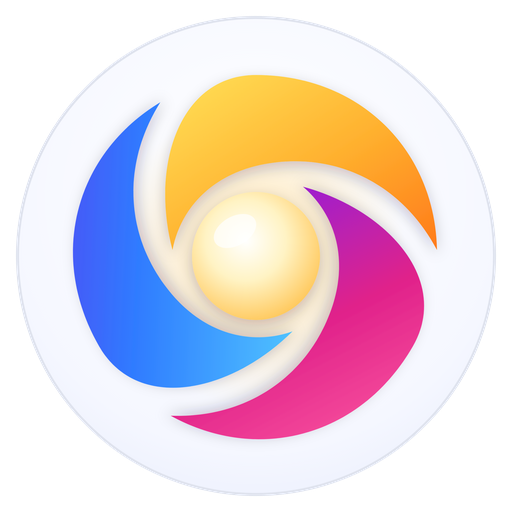
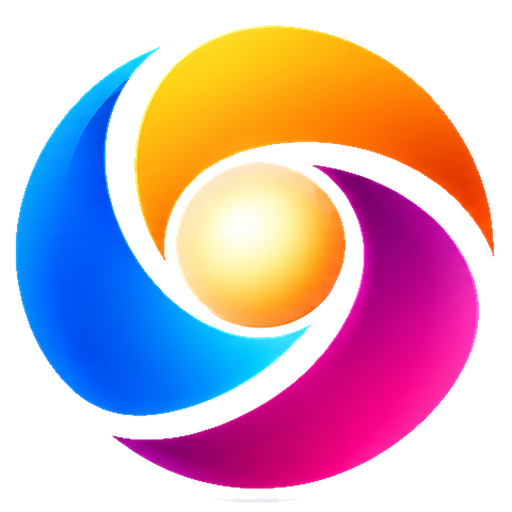
Slutlig logotyp: Solvirvel med Lumen i Inter Display Bold
Claude-Session: https://claude.ai/code/session_01MSrk4REnqPhjGdSKuFxXyL

diff --git a/shared/ui/index.html b/shared/ui/index.html
@@ -50,7 +50,7 @@ button{background:none;border:0;cursor:pointer}
 .start{max-width:760px;margin:0 auto;padding:clamp(36px,8vh,96px) 20px 48px;text-align:center}
 .logo{width:96px;height:96px;margin:0 auto 22px;display:block;filter:drop-shadow(0 16px 30px rgba(60,80,200,.3))}
 .wmh{margin:0 0 10px;line-height:0}
-.lockup{display:flex;align-items:center;justify-content:center;gap:clamp(14px,3vw,22px);margin:0 0 14px;line-height:0}.lockup img{width:clamp(66px,14vw,88px);height:auto;filter:drop-shadow(0 10px 24px rgba(120,60,200,.25))}.wm2{height:clamp(40px,8.4vw,54px);width:auto;color:var(--ink)}.wm{height:clamp(52px,9vw,72px);width:auto;color:var(--ink);overflow:visible}
+.lockup{display:flex;align-items:center;justify-content:center;gap:clamp(14px,3vw,22px);margin:0 0 14px;line-height:0}.lockup img{width:clamp(70px,15vw,92px);height:auto;filter:drop-shadow(0 12px 20px rgba(120,60,200,.18))}.wm2{height:clamp(42px,9vw,58px);width:auto;color:var(--ink)}.wm{height:clamp(52px,9vw,72px);width:auto;color:var(--ink);overflow:visible}
 h1{font-size:clamp(34px,6vw,52px);line-height:1.05;letter-spacing:-.025em;font-weight:700;margin:0 0 8px;text-wrap:balance}
 .lead{color:var(--sub);font-size:17px;margin:0 0 30px}
 .big{display:flex;align-items:center;gap:10px;height:56px;padding:0 8px 0 20px;background:var(--card);border:1px solid var(--line);border-radius:18px;box-shadow:0 8px 30px rgba(0,0,0,.07);transition:box-shadow .3s}
@@ -359,7 +359,7 @@ function render(){const e=entry();renderTabs();$('view').classList.remove('web')
 function startHTML(){if(tab().priv)return `<div class="start pstart"><div class="pico"><svg viewBox="0 0 24 24"><path d="M3 12c2.5-4 5.5-6 9-6s6.5 2 9 6c-2.5 4-5.5 6-9 6s-6.5-2-9-6z"/><circle cx="12" cy="12" r="3"/><path d="M4 4l16 16"/></svg></div><h1>Privat surfning</h1><p class="lead">Lumen sparar ingen historik och inga sökningar från privata flikar. När du stänger den sista privata fliken raderas kakor och inloggningar från dem.</p><form class="big" id="bigf"><input id="bigq" type="search" placeholder="Sök privat med DuckDuckGo" aria-label="Sök" autocomplete="off"><button class="go">Sök</button></form></div>`;
  return `<div class="start"><button class="gear${canUpdate()&&upd.state==='available'?' dot':''}" id="gear" aria-label="Inställningar"><svg viewBox="0 0 24 24"><circle cx="12" cy="12" r="3"/><path d="M19.4 15a1.7 1.7 0 0 0 .3 1.8l.1.1a2 2 0 1 1-2.8 2.8l-.1-.1a1.7 1.7 0 0 0-1.8-.3 1.7 1.7 0 0 0-1 1.5V21a2 2 0 1 1-4 0v-.1a1.7 1.7 0 0 0-1.1-1.5 1.7 1.7 0 0 0-1.8.3l-.1.1a2 2 0 1 1-2.8-2.8l.1-.1a1.7 1.7 0 0 0 .3-1.8 1.7 1.7 0 0 0-1.5-1H3a2 2 0 1 1 0-4h.1a1.7 1.7 0 0 0 1.5-1.1 1.7 1.7 0 0 0-.3-1.8l-.1-.1a2 2 0 1 1 2.8-2.8l.1.1a1.7 1.7 0 0 0 1.8.3H9a1.7 1.7 0 0 0 1-1.5V3a2 2 0 1 1 4 0v.1a1.7 1.7 0 0 0 1 1.5 1.7 1.7 0 0 0 1.8-.3l.1-.1a2 2 0 1 1 2.8 2.8l-.1.1a1.7 1.7 0 0 0-.3 1.8V9a1.7 1.7 0 0 0 1.5 1H21a2 2 0 1 1 0 4h-.1a1.7 1.7 0 0 0-1.5 1z"/></svg></button>
  ${updCard()}
- <h1 class="lockup"><img src="lumen-icon-512.png" alt=""><svg class="wm2" viewBox="0 -790 3278 850" role="img" aria-label="Lumen" xmlns="http://www.w3.org/2000/svg"><g transform="scale(1,-1)" fill="currentColor"><path transform="translate(0,0)" d="M90 0V730H232V0ZM212 0V125H527V0Z"/><path transform="translate(513,0)" d="M264 -17Q170 -17 118.5 45.0Q67 107 67 229V544H206V217Q206 167 234.0 137.5Q262 108 310 108Q358 108 388.5 139.0Q419 170 419 223V544H558V0H448V231H459Q459 149 438.0 94.0Q417 39 375.0 11.0Q333 -17 270 -17Z"/><path transform="translate(1112,0)" d="M79 0V543H189V310H179Q179 392 200.0 447.5Q221 503 262.5 531.5Q304 560 366 560H372Q435 560 476.5 531.5Q518 503 538.5 447.5Q559 392 559 310H524Q524 392 545.5 447.5Q567 503 608.5 531.5Q650 560 712 560H718Q781 560 823.0 531.5Q865 503 886.5 447.5Q908 392 908 310V0H769V323Q769 374 743.0 404.5Q717 435 669 435Q621 435 592.0 403.5Q563 372 563 319V0H424V323Q424 374 398.0 404.5Q372 435 324 435Q276 435 247.0 403.5Q218 372 218 319V0Z"/><path transform="translate(2050,0)" d="M322 -19Q252 -19 199.5 5.0Q147 29 112.5 69.5Q78 110 60.5 160.0Q43 210 43 262V281Q43 335 60.5 385.5Q78 436 112.5 475.5Q147 515 198.0 538.5Q249 562 316 562Q404 562 463.5 523.5Q523 485 553.0 422.5Q583 360 583 288V238H102V323H496L453 281Q453 333 438.0 370.0Q423 407 392.5 427.0Q362 447 316 447Q270 447 238.0 426.0Q206 405 189.5 365.5Q173 326 173 271Q173 220 189.0 180.5Q205 141 238.0 118.5Q271 96 322 96Q373 96 405.0 116.5Q437 137 446 167H574Q562 111 528.0 69.0Q494 27 441.5 4.0Q389 -19 322 -19Z"/><path transform="translate(2630,0)" d="M79 0V543H189V310H179Q179 393 201.0 448.5Q223 504 266.5 532.0Q310 560 375 560H381Q478 560 528.0 497.5Q578 435 578 311V0H439V323Q439 373 410.5 404.0Q382 435 332 435Q281 435 249.5 403.5Q218 372 218 319V0Z"/></g></svg></h1><p class="lead">Webbläsaren och sökmotorn som svarar direkt.</p>
+ <h1 class="lockup"><img src="lumen-icon-512.png" alt=""><svg class="wm2" viewBox="0 -1592 6518 1694" role="img" aria-label="Lumen" xmlns="http://www.w3.org/2000/svg"><g transform="scale(1,-1)" fill="currentColor"><path transform="translate(0,0)" d="M111 0H1096V264H419V1490H111Z"/><path transform="translate(1145,0)" d="M475 -22C627 -22 734 46 805 166V0H1094V1056H800V469C800 305 715 232 593 232C470 232 399 307 399 449V1056H104V395C104 128 250 -22 475 -22Z"/><path transform="translate(2349,0)" d="M104 0H399V623C399 759 483 835 588 835C691 835 763 764 763 654V0H1047V636C1047 754 1118 835 1232 835C1333 835 1411 773 1411 646V0H1705V700C1705 942 1554 1078 1351 1078C1198 1078 1068 1001 1013 872C969 1001 850 1078 708 1078C574 1078 451 1009 388 866V1056H104Z"/><path transform="translate(4164,0)" d="M586 -24C842 -24 1046 122 1085 332H816C789 250 710 197 595 197C440 197 350 298 345 454H1096V533C1096 855 887 1080 576 1080C273 1080 58 849 58 527C58 206 266 -24 586 -24ZM347 642C363 774 450 856 582 856C715 856 803 774 818 642Z"/><path transform="translate(5319,0)" d="M399 587C399 751 484 824 606 824C729 824 800 749 800 607V0H1094V661C1094 928 949 1078 724 1078C572 1078 465 1010 394 890V1056H104V0H399Z"/></g></svg></h1><p class="lead">Webbläsaren och sökmotorn som svarar direkt.</p>
  <form class="big" id="bigf"><input id="bigq" type="search" placeholder="Vad vill du veta?" aria-label="Sök" autocomplete="off"><button class="go">Sök</button></form>
  ${favsHTML()}
  <h2>Senaste sökningar</h2>${recent.length?`<div class="recent">${recent.map(r=>`<button class="chip" data-q="${esc(r)}">${esc(r)}</button>`).join('')}</div>`:'<p class="empty">Inga sökningar ännu – dina sökningar sparas bara i den här webbläsaren.</p>'}
